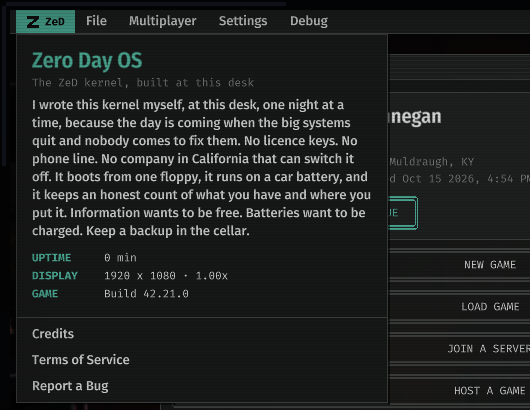
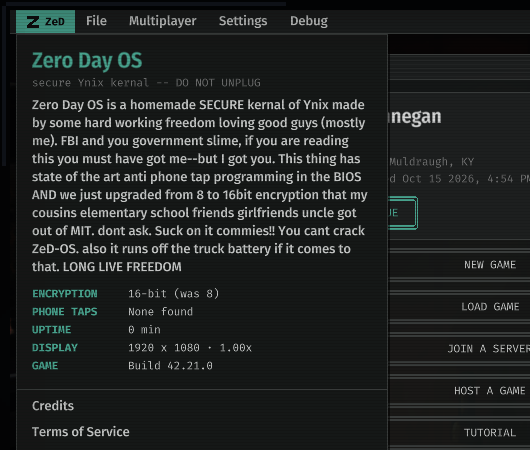
About block: the owner's words as typed, rough on purpose
The Zero Day OS text follows the director's draft and stays disorganized:
one run-on block, the owner's spelling, the asides. Subtitle and two
bragging readouts (encryption, phone taps) to match.

diff --git a/ZeDUI/deltas/SESSION_125_DELTA.md b/ZeDUI/deltas/SESSION_125_DELTA.md
@@ -457,3 +457,4 @@ Wired in from the two design handoffs (`ZeDUI/tools/buckles/README.md`, `ZeDUI/t
 
 - "there is a couple second hang where the main menu is only partially loaded, like a backdrop layer, then the top loads ... fade in or hide until all is loaded". Filmed at boot (`startcap`, frames by wall clock against the debug log): the menu bar and the windows drew at once, but the desk picture and the monitor's wallpaper (loose textures the engine streams while it finishes booting) arrived about 2.6 s later, so the bare margin colours showed behind the windows. Now `ZeD_MMWake`, the desk's last child, holds the whole screen dark until the pictures report ready (`Texture:isReady()`; ten seconds at most), then fades the room up in 0.45 s; nothing answers the pointer while it is dark. Back from a game the pictures are in and it steps aside at once. The five pictures are also asked for when the menu's Lua loads (not cached there), so they start streaming during the boot: the dark after the warning screen went from about 4 s to about 1 s, and the room is up at the same moment the windows used to appear (`ZeDUI/qa/S125_mainmenu/startup_fade_in.png`).
 - "the boiler plate in the zed menu is supposed to be about the fictional Zero Day OS Kernel that the user of this desk and computer built. Not advertising the features. Should read like half crazy idealist, half prepper." The About block is now "Zero Day OS", "The ZeD kernel. Do not unplug.", and the owner's own words (wrote it at this desk one night at a time, for the day the big systems quit; no licence keys, no phone line, no company in California that can switch it off; boots from one floppy, runs on a car battery, keeps an honest count of what you have; "Information wants to be free. Batteries want to be charged. Keep a backup in the cellar."). The facts under it: UPTIME (since the game booted), DISPLAY, GAME (the build, its one place). Verified live (`about_zero_day_os.png`).
+- The About text, take two (director, Oct 15 2026: their own draft, "Zero Day OS is a homemade SECURE kernal of Ynix made by some hard working freedom loving good guys. FBI and you government slime ...", then "Dont use LLM patterns. It should sound disorganized"). Now the owner's words as typed, one run-on block with the spelling and the missing apostrophes kept, two asides ("(mostly me)", "dont ask") and the truck battery; subtitle "secure Ynix kernal -- DO NOT UNPLUG"; the facts under it add ENCRYPTION 16-bit (was 8) and PHONE TAPS None found. The source comment says not to tidy it.
